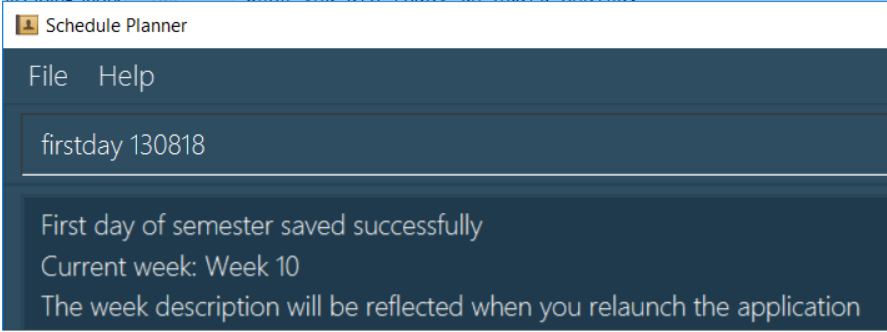
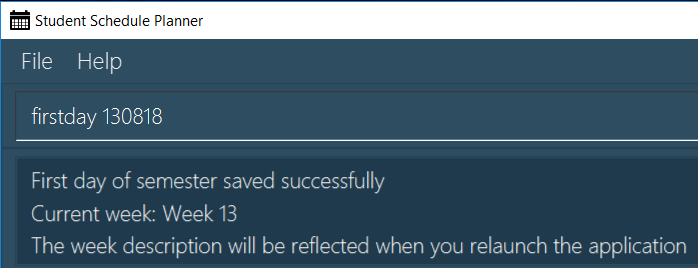
Rebuild pages at beef3a8d1cfee15b930dd730e613592ed8ae572a

Changed region(s): [[0.0, 0.0, 1.0, 1.0]]

diff --git a/team/crimsonang.html b/team/crimsonang.html
@@ -47,7 +47,7 @@ due on a particular week and could use this to plan their remaining time properl
 </li>
 <li>
 <p>Highlights: This implementation was challenging as it required creating a new <code>model</code> and <code>storage</code> for saving and
-retrieving the academic week data.</p>
+retrieving the academic weeks data.</p>
 </li>
 <li>
 <p>Credits: <a href="https://stackoverflow.com/questions/1816673/how-do-i-check-if-a-file-exists-in-java">#1</a>,
@@ -172,8 +172,8 @@ particular week&#8217;s description to the title of the application.<br></p>
 <div class="content">
 <div class="paragraph">
 <p>The following diagram illustrates when you used <code>firstday</code> command with the date <code>130818</code>
-and launch the application within <code>221018</code> to <code>281018</code> (Week 10 for
-NUS academic year 18/19 semester 1), the application title will be appended with "Week 10".</p>
+and launch the application within <code>121118</code> to <code>181118</code> (Week 13 for
+NUS academic year 18/19 semester 1), the application title will be appended with "Week 13".</p>
 </div>
 <div class="imageblock">
 <div class="content">
@@ -686,4 +686,4 @@ E.g listday 130818 to view all tasks for 13 August 2018.</p>
 </div>
 </div>
 </div>
-</div></div><div id="footer"><div class="container"><div id="footer-text">Last updated 2018-11-09 21:20:38 UTC</div></div></div></body></html>
+</div></div><div id="footer"><div class="container"><div id="footer-text">Last updated 2018-11-10 05:22:06 UTC</div></div></div></body></html>

diff --git a/HelpWindow.html b/HelpWindow.html
@@ -712,8 +712,8 @@ particular week&#8217;s description to the title of the application.<br></p>
 <div class="content">
 <div class="paragraph">
 <p>The following diagram illustrates when you used <code>firstday</code> command with the date <code>130818</code>
-and launch the application within <code>221018</code> to <code>281018</code> (Week 10 for
-NUS academic year 18/19 semester 1), the application title will be appended with "Week 10".</p>
+and launch the application within <code>121118</code> to <code>181118</code> (Week 13 for
+NUS academic year 18/19 semester 1), the application title will be appended with "Week 13".</p>
 </div>
 <div class="imageblock">
 <div class="content">
@@ -1495,4 +1495,4 @@ Example:<br>
 <strong>A</strong>: Install the app in the other computer and overwrite the empty data file it creates with the file that contains the data of your previous Schedule planner folder.</p>
 </div>
 </div>
-</div></div><div id="footer"><div class="container"><div id="footer-text">Last updated 2018-11-09 21:20:38 UTC</div></div></div></body></html>
+</div></div><div id="footer"><div class="container"><div id="footer-text">Last updated 2018-11-10 05:22:06 UTC</div></div></div></body></html>

diff --git a/UserGuide.html b/UserGuide.html
@@ -712,8 +712,8 @@ particular week&#8217;s description to the title of the application.<br></p>
 <div class="content">
 <div class="paragraph">
 <p>The following diagram illustrates when you used <code>firstday</code> command with the date <code>130818</code>
-and launch the application within <code>221018</code> to <code>281018</code> (Week 10 for
-NUS academic year 18/19 semester 1), the application title will be appended with "Week 10".</p>
+and launch the application within <code>121118</code> to <code>181118</code> (Week 13 for
+NUS academic year 18/19 semester 1), the application title will be appended with "Week 13".</p>
 </div>
 <div class="imageblock">
 <div class="content">
@@ -1495,4 +1495,4 @@ Example:<br>
 <strong>A</strong>: Install the app in the other computer and overwrite the empty data file it creates with the file that contains the data of your previous Schedule planner folder.</p>
 </div>
 </div>
-</div></div><div id="footer"><div class="container"><div id="footer-text">Last updated 2018-11-09 21:20:38 UTC</div></div></div></body></html>
+</div></div><div id="footer"><div class="container"><div id="footer-text">Last updated 2018-11-10 05:22:06 UTC</div></div></div></body></html>

diff --git a/team/park-sang-jun.html b/team/park-sang-jun.html
@@ -391,4 +391,4 @@ pointing to the latest state in the <code>schedulePlannerStateList</code>, all s
 <p><em>{Optionally, you may include other projects in your portfolio.}</em></p>
 </div>
 </div>
-</div></div><div id="footer"><div class="container"><div id="footer-text">Last updated 2018-11-09 21:20:38 UTC</div></div></div></body></html>
+</div></div><div id="footer"><div class="container"><div id="footer-text">Last updated 2018-11-10 05:22:06 UTC</div></div></div></body></html>

diff --git a/team/thaddeuslzy.html b/team/thaddeuslzy.html
@@ -420,4 +420,4 @@ pointing to the latest state in the <code>schedulePlannerStateList</code>, all s
 <p><em>{Optionally, you may include other projects in your portfolio.}</em></p>
 </div>
 </div>
-</div></div><div id="footer"><div class="container"><div id="footer-text">Last updated 2018-11-09 21:20:38 UTC</div></div></div></body></html>
+</div></div><div id="footer"><div class="container"><div id="footer-text">Last updated 2018-11-10 05:22:06 UTC</div></div></div></body></html>

diff --git a/team/woodnsuns.html b/team/woodnsuns.html
@@ -347,4 +347,4 @@ pointing to the latest state in the <code>schedulePlannerStateList</code>, all s
 <p><em>{Optionally, you may include other projects in your portfolio.}</em></p>
 </div>
 </div>
-</div></div><div id="footer"><div class="container"><div id="footer-text">Last updated 2018-11-09 21:20:38 UTC</div></div></div></body></html>
+</div></div><div id="footer"><div class="container"><div id="footer-text">Last updated 2018-11-10 05:22:06 UTC</div></div></div></body></html>

diff --git a/ContactUs.html b/ContactUs.html
@@ -9,4 +9,4 @@
 <p><strong>Contributing</strong> : We welcome pull requests. Follow the process described <a href="https://github.com/oss-generic/process">here</a></p>
 </li>
 </ul>
-</div></div><div id="footer"><div class="container"><div id="footer-text">Last updated 2018-11-09 21:20:38 UTC</div></div></div></body></html>
+</div></div><div id="footer"><div class="container"><div id="footer-text">Last updated 2018-11-10 05:22:06 UTC</div></div></div></body></html>

diff --git a/UsingGradle.html b/UsingGradle.html
@@ -255,4 +255,4 @@ See <code>build.gradle</code> &#8594; <code>allprojects</code> &#8594; <code>dep
 </ul>
 </div>
 </div>
-</div></div><div id="footer"><div class="container"><div id="footer-text">Last updated 2018-11-09 21:20:38 UTC</div></div></div></body></html>
+</div></div><div id="footer"><div class="container"><div id="footer-text">Last updated 2018-11-10 05:22:06 UTC</div></div></div></body></html>

diff --git a/UsingNetlify.html b/UsingNetlify.html
@@ -123,4 +123,4 @@ The publish directory is the directory in which the built HTML documentation res
 </ol>
 </div>
 </div>
-</div></div><div id="footer"><div class="container"><div id="footer-text">Last updated 2018-11-09 21:20:38 UTC</div></div></div></body></html>
+</div></div><div id="footer"><div class="container"><div id="footer-text">Last updated 2018-11-10 05:22:06 UTC</div></div></div></body></html>

diff --git a/team/hotarumin.html b/team/hotarumin.html
@@ -337,4 +337,4 @@ Users can choose to upload their own images or use images uploaded by other user
 </div>
 <hr>
 </div>
-</div></div><div id="footer"><div class="container"><div id="footer-text">Last updated 2018-11-09 21:20:38 UTC</div></div></div></body></html>
+</div></div><div id="footer"><div class="container"><div id="footer-text">Last updated 2018-11-10 05:22:06 UTC</div></div></div></body></html>

diff --git a/UsingCoveralls.html b/UsingCoveralls.html
@@ -96,4 +96,4 @@ If you have not set up Travis CI, see <a href="UsingTravis.html">UsingTravis.ado
 </ol>
 </div>
 </div>
-</div></div><div id="footer"><div class="container"><div id="footer-text">Last updated 2018-11-09 21:20:38 UTC</div></div></div></body></html>
+</div></div><div id="footer"><div class="container"><div id="footer-text">Last updated 2018-11-10 05:22:06 UTC</div></div></div></body></html>

diff --git a/AboutUs.html b/AboutUs.html
@@ -95,4 +95,4 @@ Responsibilities: Ensures the testing of the project is done properly and on tim
 <hr>
 </div>
 </div>
-</div></div><div id="footer"><div class="container"><div id="footer-text">Last updated 2018-11-09 21:20:38 UTC</div></div></div></body></html>
+</div></div><div id="footer"><div class="container"><div id="footer-text">Last updated 2018-11-10 05:22:06 UTC</div></div></div></body></html>
